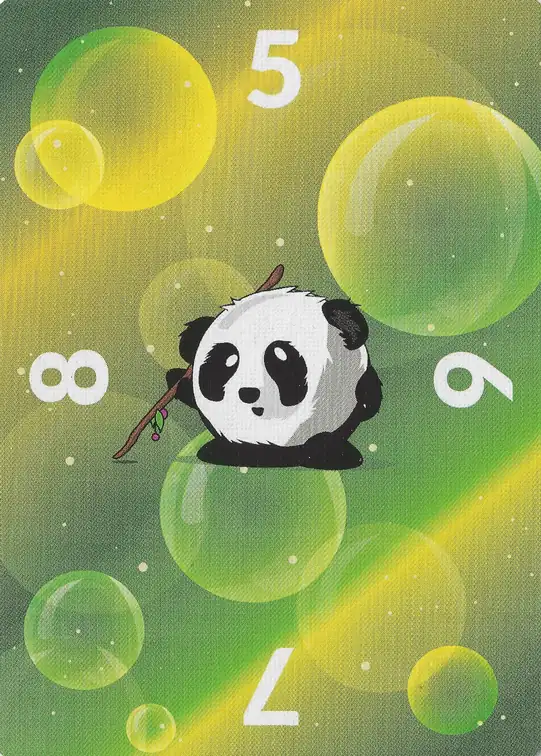
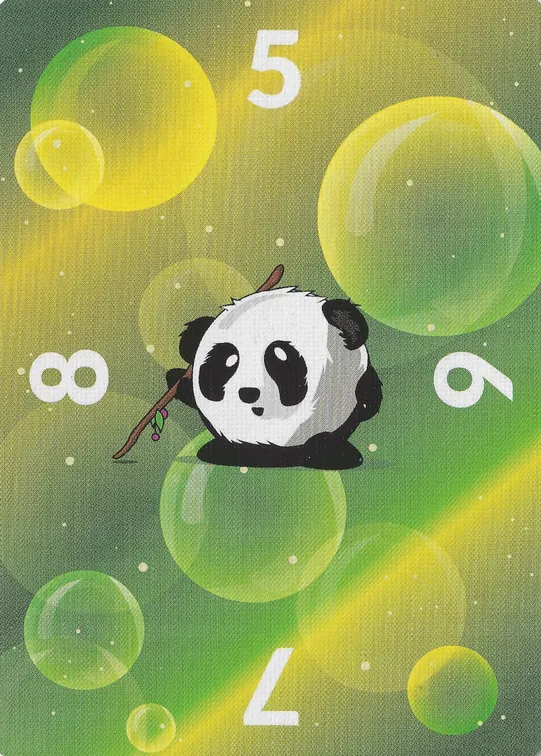
[fix] gene pool webp at quality 80, the card image standard
Also say in the test why it reads the header by hand.

diff --git a/shared/src/androidHostTest/kotlin/dev/nycocado/atlas/card/CardDataIntegrityTest.kt b/shared/src/androidHostTest/kotlin/dev/nycocado/atlas/card/CardDataIntegrityTest.kt
@@ -43,7 +43,8 @@ class CardDataIntegrityTest {
         assertEquals(emptyList(), cards.map { it.image }.filterNot { dir.resolve(it).isFile })
     }
 
-    // The app packages card images as WebP (assets/doomlings/NOTICE.md): the header says RIFF....WEBP.
+    // The app packages card images as WebP (assets/doomlings/NOTICE.md). The JVM has no WebP reader, so this checks
+    // the file header.
     @Test
     fun everyCardImageIsWebP() {
         assertEquals(
